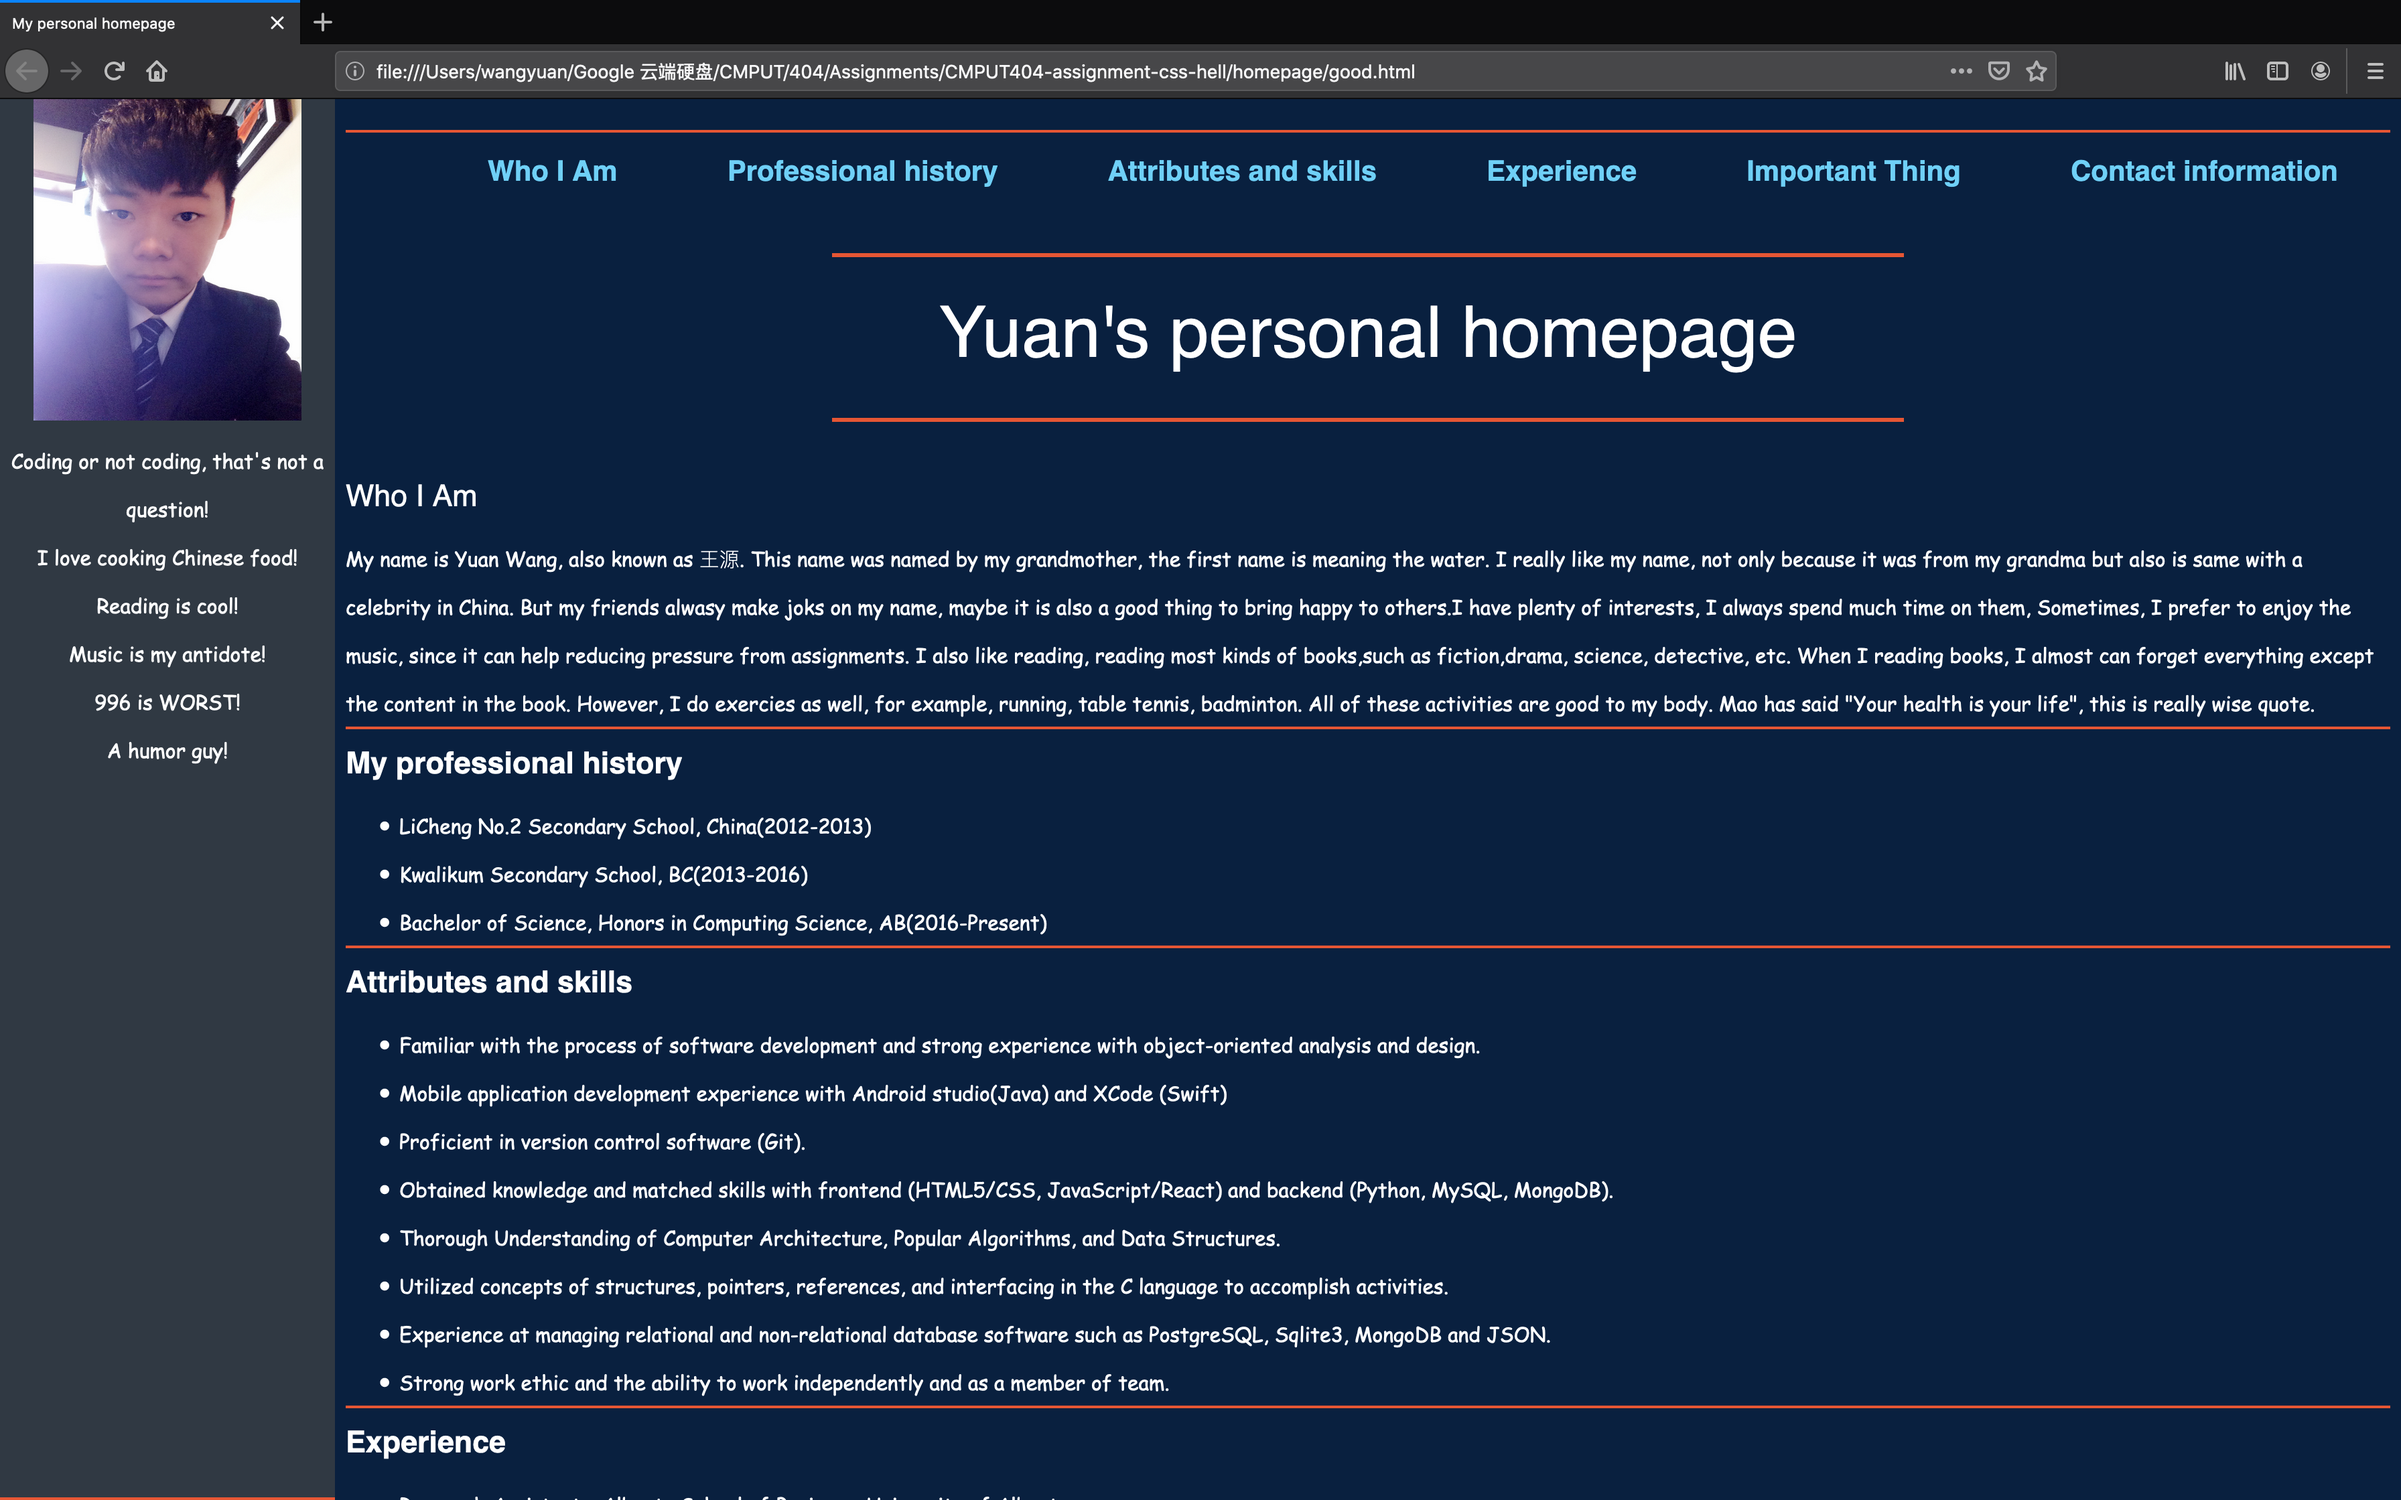
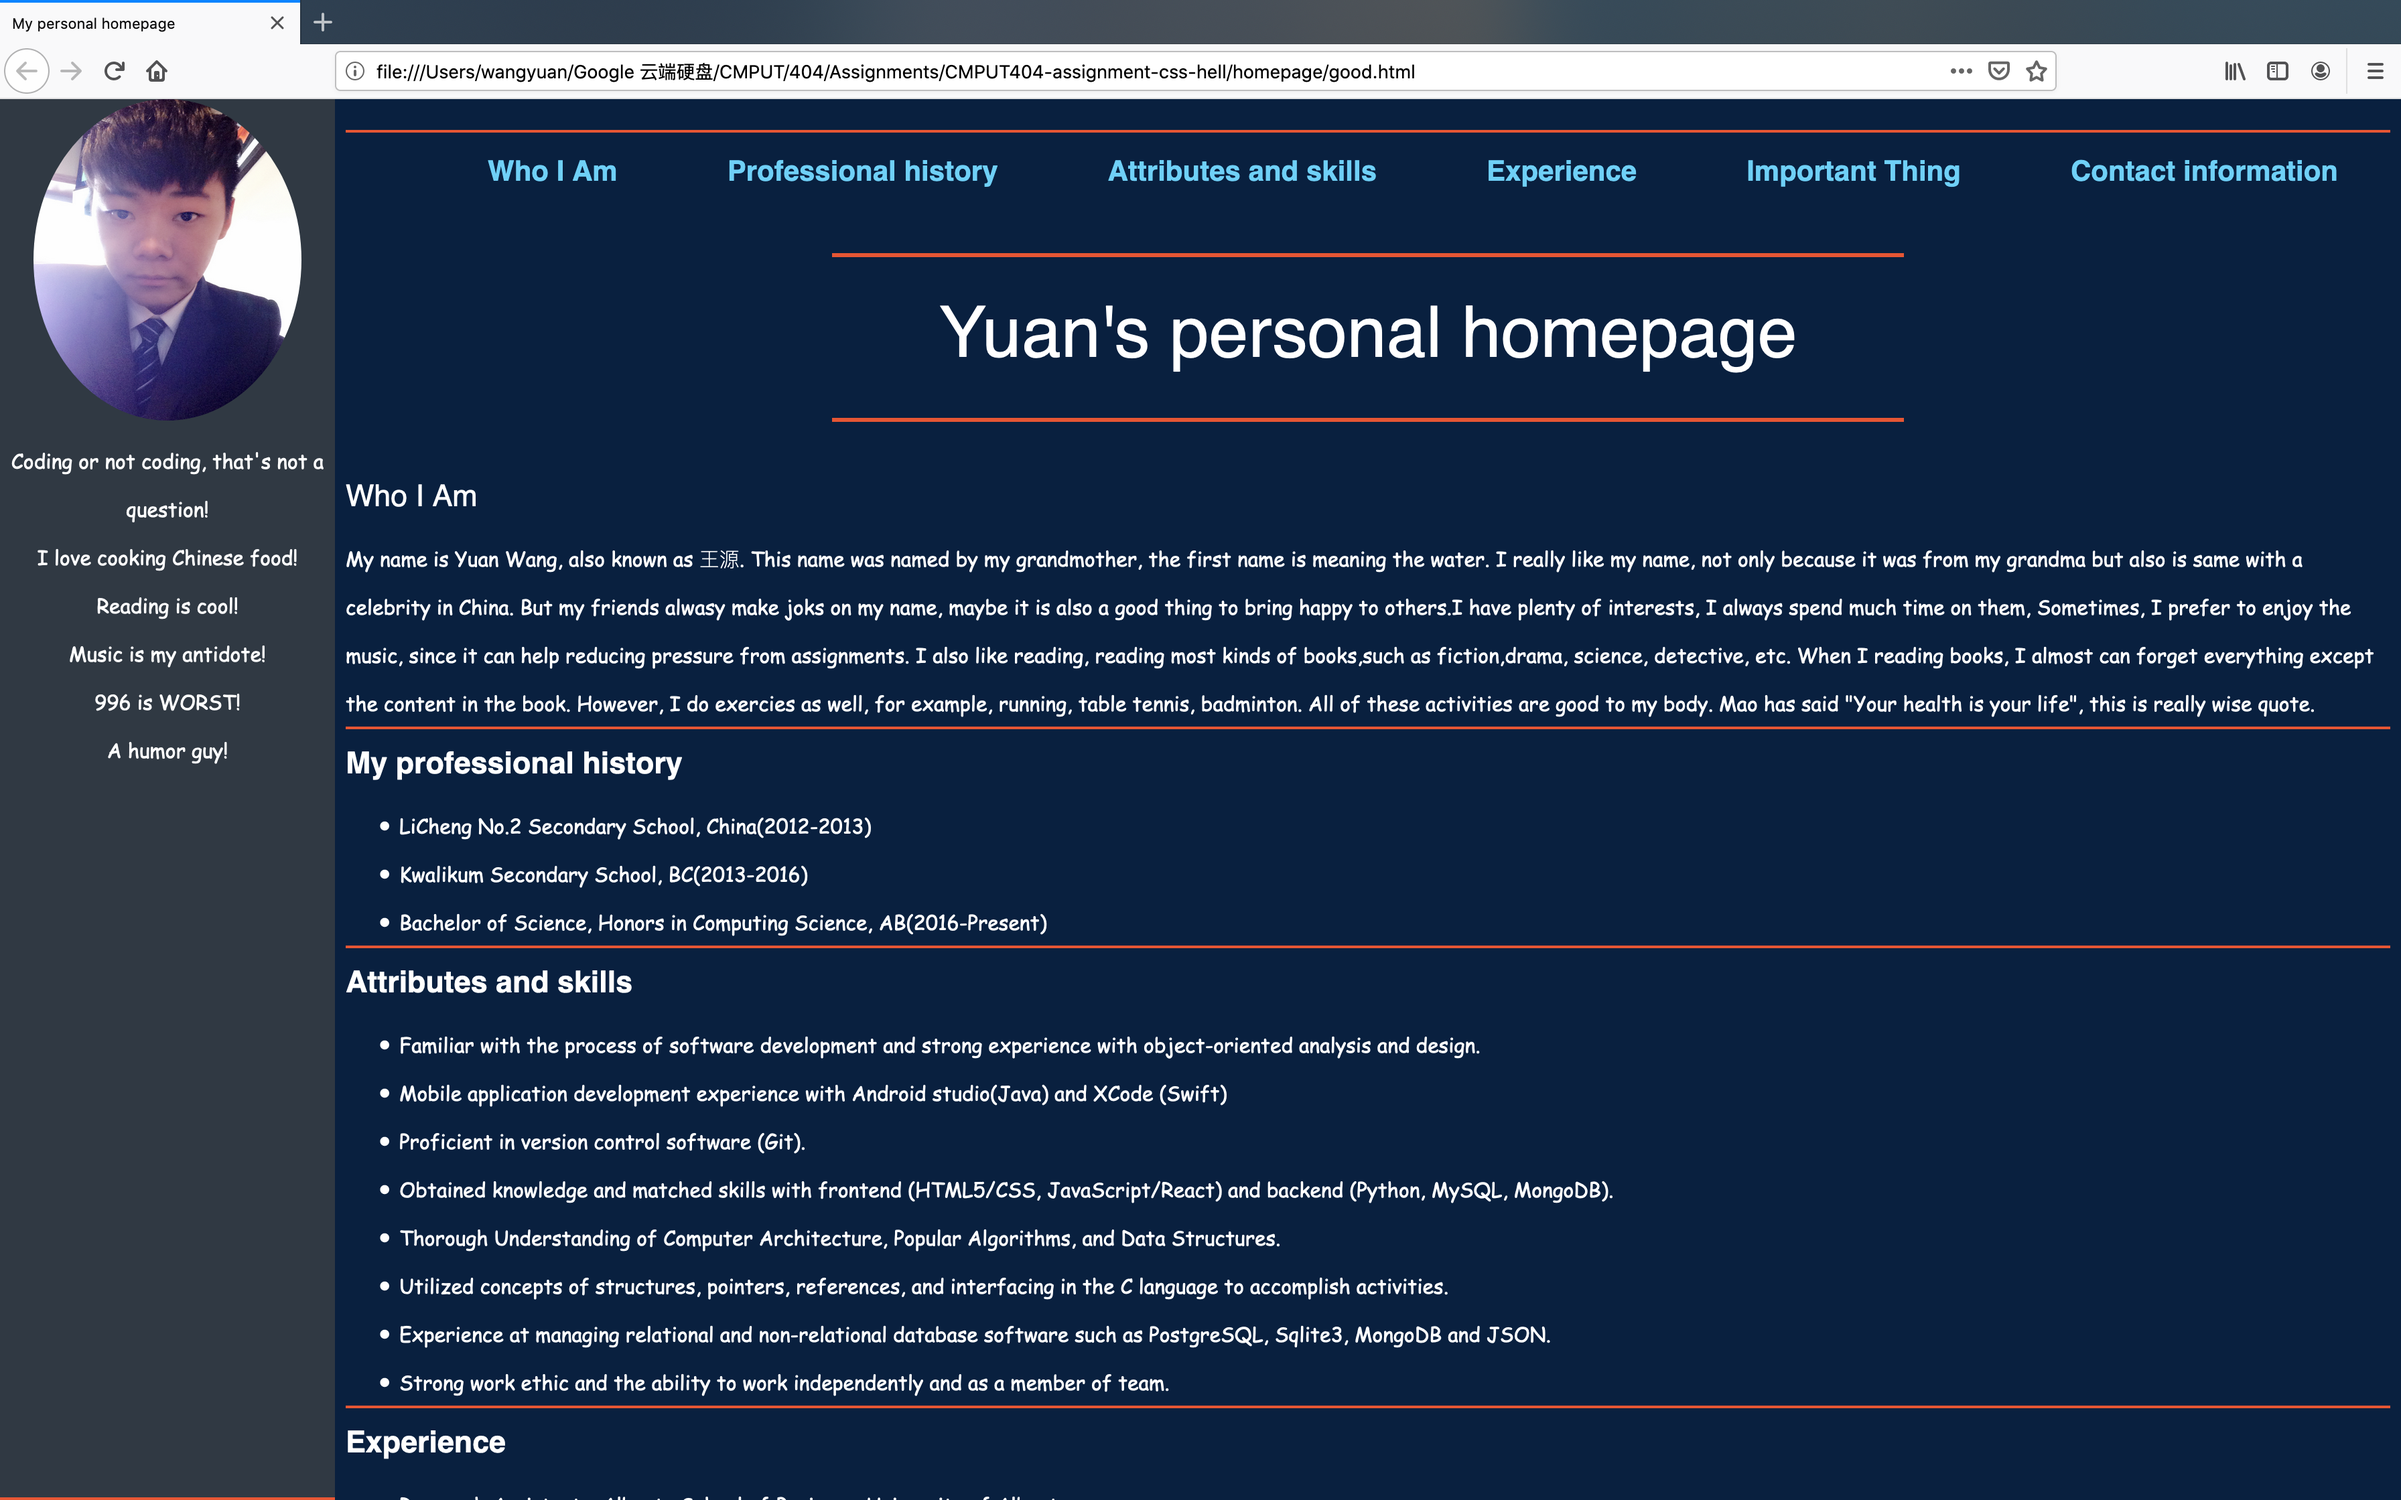
add license

Changed region(s): [[0.0, 0.0, 1.0, 0.125], [0.0, 0.2188, 0.0625, 0.2812], [0.0938, 0.2188, 0.125, 0.2812]]

diff --git a/homepage/good.html b/homepage/good.html
@@ -1,3 +1,4 @@
+<!-- Copyright 2020 Yuan Wang -->
 <!DOCTYPE html>
 <html>
 <head lang="en">
@@ -7,7 +8,7 @@
 </head>
 <body>
     <ul class="side_bar">
-    <img src="images/IMG_0482.jpg" width="200" height="240" alt="selfie"/>
+    <img src="images/IMG_0482.jpg" width="200" height="240" alt="Avatar"/>
         <li>Coding or not coding, that's not a question!</li>
         <li>I love cooking Chinese food!</li>
         <li>Reading is cool!</li>
@@ -73,10 +74,8 @@
     https://stackoverflow.com/questions/35039696/display-unordered-list-and-image-next-to-each-other<br>
     http://smallbusiness.chron.com/rid-bullets-css-44979.html
     https://i.pinimg.com/736x/82/43/4f/82434f4e97e30571366fac719c9a3e59.jpg
+    https://www.w3schools.com/howto/howto_css_rounded_images.asp
     </p>
-    <audio autoplay loop>
-        <source src= "musics/music.mp3"  type="audio/mpeg"> 
-          <p>If you can read this, your browser does not support the audio element.</p >
-    </audio>
+    <a rel="license" href="http://creativecommons.org/licenses/by-nc-nd/4.0/"><img alt="Creative Commons License" style="border-width:0" src="https://i.creativecommons.org/l/by-nc-nd/4.0/88x31.png" /></a><br />This work is licensed under a <a rel="license" href="http://creativecommons.org/licenses/by-nc-nd/4.0/">Creative Commons Attribution-NonCommercial-NoDerivatives 4.0 International License</a>.
 </body>
 </html>

diff --git a/homepage/ugly.html b/homepage/ugly.html
@@ -1,3 +1,4 @@
+<!-- Copyright 2020 Yuan Wang -->
 <!DOCTYPE html>
 <html>
 <head lang="en">
@@ -73,9 +74,8 @@
     https://stackoverflow.com/questions/35039696/display-unordered-list-and-image-next-to-each-other<br>
     http://smallbusiness.chron.com/rid-bullets-css-44979.html
     https://i.pinimg.com/736x/82/43/4f/82434f4e97e30571366fac719c9a3e59.jpg
-    </p>
-    <audio autoplay> 
-      <source src="musics/music.mp3" /> 
-    </audio> 
+    https://www.w3schools.com/howto/howto_css_rounded_images.asp
+    </p> 
+    <a rel="license" href="http://creativecommons.org/licenses/by-nc-nd/4.0/"><img alt="Creative Commons License" style="border-width:0" src="https://i.creativecommons.org/l/by-nc-nd/4.0/88x31.png" /></a><br />This work is licensed under a <a rel="license" href="http://creativecommons.org/licenses/by-nc-nd/4.0/">Creative Commons Attribution-NonCommercial-NoDerivatives 4.0 International License</a>.
 </body>
 </html>

diff --git a/homepage/css/good.css b/homepage/css/good.css
@@ -146,3 +146,8 @@ ul{
     font-weight: bold;
 
 }
+
+img {
+	width:200px;
+	border-radius: 90%;
+}
